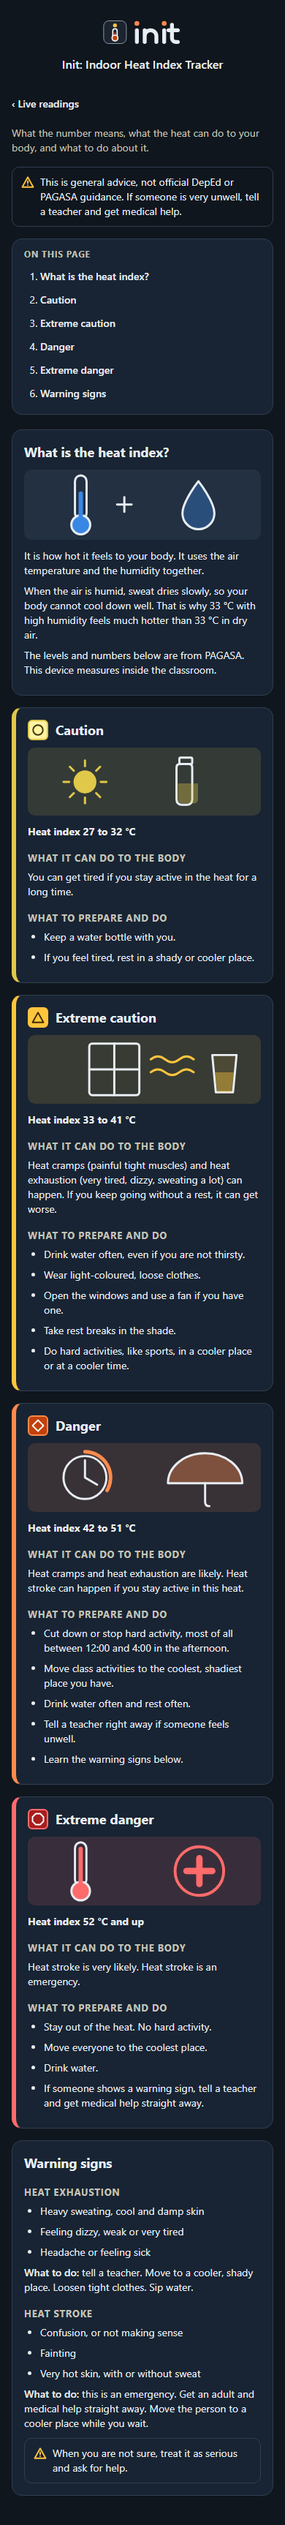
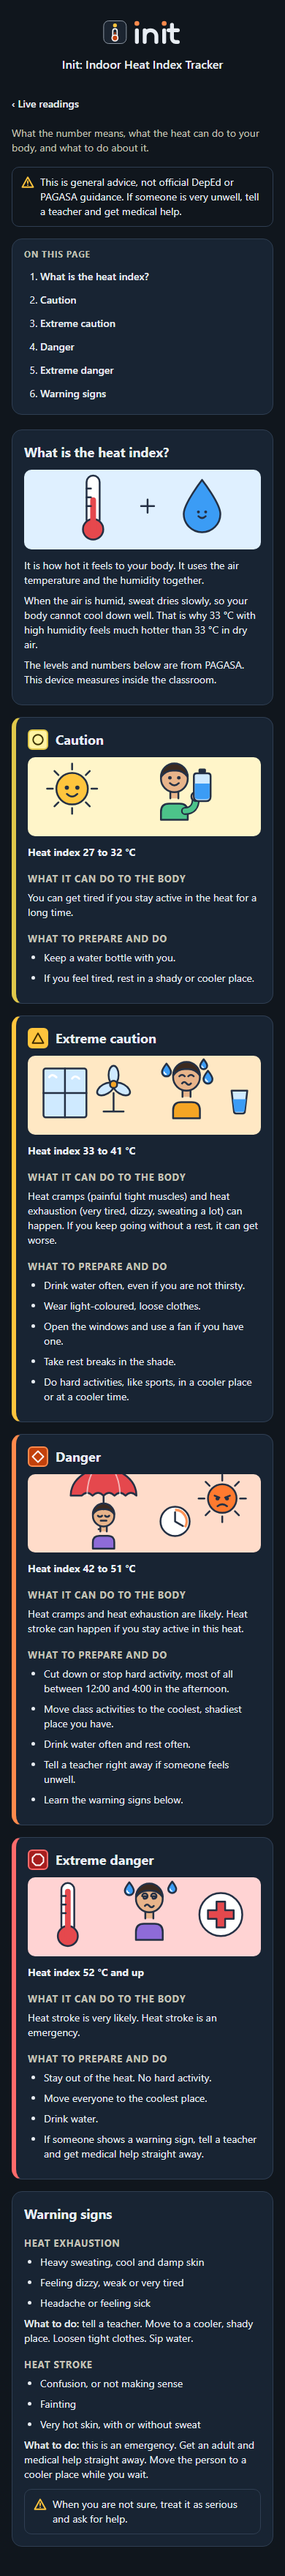
F-15 extended mocks: clip-art style pictures (kids, sun, bottle, fan, umbrella)
Inline SVG in art.mjs, decoration only. Mocks only, nothing built.

diff --git a/design/heat-info/heat.html b/design/heat-info/heat.html
@@ -30,13 +30,19 @@
   </ol></nav>
 
   <section class="gd-sec" id="what"><h2>What is the heat index?</h2>
-    <svg class="hl-art hl-art-what" viewBox="0 0 326 96" aria-hidden="true" fill="none" stroke="var(--viz-ink)" stroke-width="3" stroke-linecap="round" stroke-linejoin="round"><rect x="70" y="8" width="16" height="60" rx="8"/><circle cx="78" cy="76" r="13" fill="var(--series-hi)"/><rect x="75" y="30" width="6" height="42" rx="3" fill="var(--series-hi)" stroke="none"/><path d="M128 48h20M138 38v20"/><path d="M240 16C240 16 218 44 218 60a22 22 0 0 0 44 0C262 44 240 16 240 16z" fill="var(--series-hi)" fill-opacity=".35"/></svg>
+    <svg class="hl-art hl-art-what" viewBox="0 0 326 110" aria-hidden="true"><g transform="translate(95 52) scale(1)"><rect x="-9" y="-44" width="18" height="70" rx="9" fill="#ffffff" stroke="#243044" stroke-width="2.5" stroke-linecap="round" stroke-linejoin="round" vector-effect="non-scaling-stroke"/><circle cx="0" cy="30" r="14" fill="#e5484d" stroke="#243044" stroke-width="2.5" stroke-linecap="round" stroke-linejoin="round" vector-effect="non-scaling-stroke"/><rect x="-4" y="-14" width="8" height="48" rx="4" fill="#e5484d"/><path d="M-9 -26h6M-9 -14h6M-9 -2h6" fill="none" stroke="#243044" stroke-width="2.5" stroke-linecap="round" stroke-linejoin="round" vector-effect="non-scaling-stroke" stroke-width="2"/></g><path d="M161 50h18M170 41v18" fill="none" stroke="#243044" stroke-width="2.5" stroke-linecap="round" stroke-linejoin="round" vector-effect="non-scaling-stroke" stroke-width="5"/><g transform="translate(245 50) scale(1)"><g transform="translate(0 0) scale(3.6)"><path d="M0-10C0-10-7-1-7 3a7 7 0 0 0 14 0C7-1 0-10 0-10z" fill="#3b9cf5" stroke="#243044" stroke-width="2.5" stroke-linecap="round" stroke-linejoin="round" vector-effect="non-scaling-stroke" stroke-width="2"/></g><g transform="translate(0 9)"><circle cx="-5" cy="-1" r="2" fill="#243044"/><circle cx="5" cy="-1" r="2" fill="#243044"/><path d="M-5 5Q0 10 5 5" fill="none" stroke="#243044" stroke-width="2.5" stroke-linecap="round" stroke-linejoin="round" vector-effect="non-scaling-stroke"/></g></g></svg>
     <p>It is how hot it feels to your body. It uses the air temperature and the humidity together.</p>
     <p>When the air is humid, sweat dries slowly, so your body cannot cool down well. That is why 33 °C with high humidity feels much hotter than 33 °C in dry air.</p>
     <p>The levels and numbers below are from PAGASA. This device measures inside the classroom.</p></section>
 
   <section class="gd-sec hl-sec hl-caution" id="caution"><h2><span class="school-chip sc-caution"><svg viewBox="0 0 24 24" aria-hidden="true"><circle cx="12" cy="12" r="9"/></svg></span>Caution</h2>
-    <svg class="hl-art hl-art-caution" viewBox="0 0 326 96" aria-hidden="true" fill="none" stroke="var(--viz-ink)" stroke-width="3" stroke-linecap="round" stroke-linejoin="round"><circle cx="80" cy="48" r="16" fill="var(--heat-caution-border)" stroke="none"/><g stroke="var(--heat-caution-border)"><path d="M102.0 48.0 L110.0 48.0"/><path d="M95.6 63.6 L101.2 69.2"/><path d="M80.0 70.0 L80.0 78.0"/><path d="M64.4 63.6 L58.8 69.2"/><path d="M58.0 48.0 L50.0 48.0"/><path d="M64.4 32.4 L58.8 26.8"/><path d="M80.0 26.0 L80.0 18.0"/><path d="M95.6 32.4 L101.2 26.8"/></g><rect x="212" y="14" width="18" height="9" rx="2"/><path d="M208 28q0-5 5-5h12q5 0 5 5v44q0 8-8 8h-6q-8 0-8-8z"/><path d="M210 50h28v22q0 6-6 6h-16q-6 0-6-6z" fill="var(--heat-caution-border)" fill-opacity=".35" stroke="none"/></svg>
+    <svg class="hl-art hl-art-caution" viewBox="0 0 326 110" aria-hidden="true"><g transform="translate(62 44) scale(1)"><path d="M27.0 0.0L35.0 0.0" fill="none" stroke="#243044" stroke-width="2.5" stroke-linecap="round" stroke-linejoin="round" vector-effect="non-scaling-stroke" stroke-width="3.5"/><path d="M19.1 19.1L24.7 24.7" fill="none" stroke="#243044" stroke-width="2.5" stroke-linecap="round" stroke-linejoin="round" vector-effect="non-scaling-stroke" stroke-width="3.5"/><path d="M0.0 27.0L0.0 35.0" fill="none" stroke="#243044" stroke-width="2.5" stroke-linecap="round" stroke-linejoin="round" vector-effect="non-scaling-stroke" stroke-width="3.5"/><path d="M-19.1 19.1L-24.7 24.7" fill="none" stroke="#243044" stroke-width="2.5" stroke-linecap="round" stroke-linejoin="round" vector-effect="non-scaling-stroke" stroke-width="3.5"/><path d="M-27.0 0.0L-35.0 0.0" fill="none" stroke="#243044" stroke-width="2.5" stroke-linecap="round" stroke-linejoin="round" vector-effect="non-scaling-stroke" stroke-width="3.5"/><path d="M-19.1 -19.1L-24.7 -24.7" fill="none" stroke="#243044" stroke-width="2.5" stroke-linecap="round" stroke-linejoin="round" vector-effect="non-scaling-stroke" stroke-width="3.5"/><path d="M-0.0 -27.0L-0.0 -35.0" fill="none" stroke="#243044" stroke-width="2.5" stroke-linecap="round" stroke-linejoin="round" vector-effect="non-scaling-stroke" stroke-width="3.5"/><path d="M19.1 -19.1L24.7 -24.7" fill="none" stroke="#243044" stroke-width="2.5" stroke-linecap="round" stroke-linejoin="round" vector-effect="non-scaling-stroke" stroke-width="3.5"/><circle r="22" fill="#ffc53d" stroke="#243044" stroke-width="2.5" stroke-linecap="round" stroke-linejoin="round" vector-effect="non-scaling-stroke"/><g transform="translate(0 0) scale(1.4666666666666666)"><circle cx="-5" cy="-1" r="2" fill="#243044"/><circle cx="5" cy="-1" r="2" fill="#243044"/><path d="M-5 5Q0 10 5 5" fill="none" stroke="#243044" stroke-width="2.5" stroke-linecap="round" stroke-linejoin="round" vector-effect="non-scaling-stroke"/></g></g><g transform="translate(205 30) scale(1.25)">
+  <path d="M-15 46v-9q0-9 9-9h12q9 0 9 9v9z" fill="#4cc38a" stroke="#243044" stroke-width="2.5" stroke-linecap="round" stroke-linejoin="round" vector-effect="non-scaling-stroke"/>
+  <path d="M12 36q12 0 12-14" fill="none" stroke="#243044" stroke-width="9" stroke-linecap="round"/><path d="M12 36q12 0 12-14" fill="none" stroke="#4cc38a" stroke-width="5.5" stroke-linecap="round"/><circle cx="24" cy="20" r="5" fill="#e8b48a" stroke="#243044" stroke-width="2.5" stroke-linecap="round" stroke-linejoin="round" vector-effect="non-scaling-stroke"/>
+  <rect x="-4.5" y="13" width="9" height="9" fill="#e8b48a"/><path d="M-4.5 14v8M4.5 14v8" fill="none" stroke="#243044" stroke-width="2.5" stroke-linecap="round" stroke-linejoin="round" vector-effect="non-scaling-stroke"/>
+  <circle cx="0" cy="0" r="15" fill="#e8b48a" stroke="#243044" stroke-width="2.5" stroke-linecap="round" stroke-linejoin="round" vector-effect="non-scaling-stroke"/>
+  <path d="M-15 -2A15 15 0 0 1 15 -2Q9-10 0-9Q-9-10-15-2z" fill="#3b2a20" stroke="#243044" stroke-width="2.5" stroke-linecap="round" stroke-linejoin="round" vector-effect="non-scaling-stroke"/>
+  <circle cx="-5" cy="-1" r="2" fill="#243044"/><circle cx="5" cy="-1" r="2" fill="#243044"/><path d="M-5 5Q0 10 5 5" fill="none" stroke="#243044" stroke-width="2.5" stroke-linecap="round" stroke-linejoin="round" vector-effect="non-scaling-stroke"/></g><g transform="translate(244 38) scale(1.3)"><rect x="-4" y="-17" width="8" height="5" rx="1.5" fill="#243044"/><path d="M-6-12h12q3 0 3 3v22q0 5-5 5h-8q-5 0-5-5v-22q0-3 3-3z" fill="#cfeaff" stroke="#243044" stroke-width="2.5" stroke-linecap="round" stroke-linejoin="round" vector-effect="non-scaling-stroke"/><path d="M-8 -1h16v14q0 3-4 3h-8q-4 0-4-3z" fill="#3b9cf5"/></g></svg>
     <p class="hl-range">Heat index 27 to 32 °C</p>
     <h3>What it can do to the body</h3>
     <p>You can get tired if you stay active in the heat for a long time.</p>
@@ -44,7 +50,13 @@
     <ul><li>Keep a water bottle with you.</li><li>If you feel tired, rest in a shady or cooler place.</li></ul></section>
 
   <section class="gd-sec hl-sec hl-extreme-caution" id="extreme-caution"><h2><span class="school-chip sc-extreme-caution"><svg viewBox="0 0 24 24" aria-hidden="true"><path d="M12 3 22 21H2z"/></svg></span>Extreme caution</h2>
-    <svg class="hl-art hl-art-extreme-caution" viewBox="0 0 326 96" aria-hidden="true" fill="none" stroke="var(--viz-ink)" stroke-width="3" stroke-linecap="round" stroke-linejoin="round"><rect x="86" y="12" width="70" height="72" rx="4"/><path d="M121 12v72M86 48h70"/><path d="M172 34q10-8 20 0t20 0t20 0M172 52q10-8 20 0t20 0t20 0" stroke="var(--heat-extreme-caution-border)"/><path d="M258 28h34l-5 52h-24z" fill="var(--heat-extreme-caution-border)" fill-opacity=".1"/><path d="M262 52h26l-3 28h-20z" fill="var(--heat-extreme-caution-border)" fill-opacity=".4" stroke="none"/></svg>
+    <svg class="hl-art hl-art-extreme-caution" viewBox="0 0 326 110" aria-hidden="true"><g transform="translate(52 52) scale(1)"><rect x="-30" y="-34" width="60" height="68" rx="3" fill="#cfeaff" stroke="#243044" stroke-width="2.5" stroke-linecap="round" stroke-linejoin="round" vector-effect="non-scaling-stroke"/><path d="M0-34v68M-30 0h60" fill="none" stroke="#243044" stroke-width="2.5" stroke-linecap="round" stroke-linejoin="round" vector-effect="non-scaling-stroke"/><path d="M-22-22q4-6 10 0M10-20q4-6 10 0" fill="none" stroke="#ffffff" stroke-width="3" stroke-linecap="round"/></g><g transform="translate(120 40) scale(1)"><path d="M-14 38h28M0 12v26" fill="none" stroke="#243044" stroke-width="2.5" stroke-linecap="round" stroke-linejoin="round" vector-effect="non-scaling-stroke" stroke-width="3.5"/><g fill="#cfeaff" stroke="#243044" stroke-width="2.5" stroke-linecap="round" stroke-linejoin="round" vector-effect="non-scaling-stroke"><ellipse cx="0" cy="-13" rx="7" ry="13"/><ellipse cx="0" cy="-13" rx="7" ry="13" transform="rotate(120)"/><ellipse cx="0" cy="-13" rx="7" ry="13" transform="rotate(240)"/></g><circle r="5" fill="#f5a524" stroke="#243044" stroke-width="2.5" stroke-linecap="round" stroke-linejoin="round" vector-effect="non-scaling-stroke"/></g><g transform="translate(222 30) scale(1.25)">
+  <path d="M-15 46v-9q0-9 9-9h12q9 0 9 9v9z" fill="#f5a524" stroke="#243044" stroke-width="2.5" stroke-linecap="round" stroke-linejoin="round" vector-effect="non-scaling-stroke"/>
+  
+  <rect x="-4.5" y="13" width="9" height="9" fill="#e8b48a"/><path d="M-4.5 14v8M4.5 14v8" fill="none" stroke="#243044" stroke-width="2.5" stroke-linecap="round" stroke-linejoin="round" vector-effect="non-scaling-stroke"/>
+  <circle cx="0" cy="0" r="15" fill="#e8b48a" stroke="#243044" stroke-width="2.5" stroke-linecap="round" stroke-linejoin="round" vector-effect="non-scaling-stroke"/>
+  <path d="M-15 -2A15 15 0 0 1 15 -2Q9-10 0-9Q-9-10-15-2z" fill="#3b2a20" stroke="#243044" stroke-width="2.5" stroke-linecap="round" stroke-linejoin="round" vector-effect="non-scaling-stroke"/>
+  <path d="M-8 -1q3-3 6 0M2 -1q3-3 6 0" fill="none" stroke="#243044" stroke-width="2.5" stroke-linecap="round" stroke-linejoin="round" vector-effect="non-scaling-stroke"/><path d="M-5 7q2.5-3 5 0t5 0" fill="none" stroke="#243044" stroke-width="2.5" stroke-linecap="round" stroke-linejoin="round" vector-effect="non-scaling-stroke"/></g><g transform="translate(194 20) scale(0.9)"><path d="M0-10C0-10-7-1-7 3a7 7 0 0 0 14 0C7-1 0-10 0-10z" fill="#3b9cf5" stroke="#243044" stroke-width="2.5" stroke-linecap="round" stroke-linejoin="round" vector-effect="non-scaling-stroke" stroke-width="2"/><path d="M-3.5 3a3.5 3.5 0 0 0 3 3.5" fill="none" stroke="#ffffff" stroke-width="1.8" stroke-linecap="round"/></g><g transform="translate(252 30) scale(0.9)"><path d="M0-10C0-10-7-1-7 3a7 7 0 0 0 14 0C7-1 0-10 0-10z" fill="#3b9cf5" stroke="#243044" stroke-width="2.5" stroke-linecap="round" stroke-linejoin="round" vector-effect="non-scaling-stroke" stroke-width="2"/><path d="M-3.5 3a3.5 3.5 0 0 0 3 3.5" fill="none" stroke="#ffffff" stroke-width="1.8" stroke-linecap="round"/></g><g transform="translate(246 12) scale(0.7)"><path d="M0-10C0-10-7-1-7 3a7 7 0 0 0 14 0C7-1 0-10 0-10z" fill="#3b9cf5" stroke="#243044" stroke-width="2.5" stroke-linecap="round" stroke-linejoin="round" vector-effect="non-scaling-stroke" stroke-width="2"/><path d="M-3.5 3a3.5 3.5 0 0 0 3 3.5" fill="none" stroke="#ffffff" stroke-width="1.8" stroke-linecap="round"/></g><g transform="translate(296 62) scale(1.1)"><path d="M-10-12h20l-3 26q0 3-3 3h-8q-3 0-3-3z" fill="#cfeaff" stroke="#243044" stroke-width="2.5" stroke-linecap="round" stroke-linejoin="round" vector-effect="non-scaling-stroke"/><path d="M-8.5 -1h17l-2 14q0 2-2 2h-9q-2 0-2-2z" fill="#3b9cf5"/></g></svg>
     <p class="hl-range">Heat index 33 to 41 °C</p>
     <h3>What it can do to the body</h3>
     <p>Heat cramps (painful tight muscles) and heat exhaustion (very tired, dizzy, sweating a lot) can happen. If you keep going without a rest, it can get worse.</p>
@@ -52,7 +64,13 @@
     <ul><li>Drink water often, even if you are not thirsty.</li><li>Wear light-coloured, loose clothes.</li><li>Open the windows and use a fan if you have one.</li><li>Take rest breaks in the shade.</li><li>Do hard activities, like sports, in a cooler place or at a cooler time.</li></ul></section>
 
   <section class="gd-sec hl-sec hl-danger" id="danger"><h2><span class="school-chip sc-danger"><svg viewBox="0 0 24 24" aria-hidden="true"><path d="M12 2 22 12 12 22 2 12z"/></svg></span>Danger</h2>
-    <svg class="hl-art hl-art-danger" viewBox="0 0 326 96" aria-hidden="true" fill="none" stroke="var(--viz-ink)" stroke-width="3" stroke-linecap="round" stroke-linejoin="round"><circle cx="80" cy="48" r="30"/><path d="M80 48V24M80 48l17 10"/><path d="M80 12A36 36 0 0 1 111 66" stroke="var(--heat-danger-border)" stroke-width="5"/><path d="M196 56a52 42 0 0 1 104 0z" fill="var(--heat-danger-border)" fill-opacity=".35"/><path d="M248 56v26q0 6 6 6"/></svg>
+    <svg class="hl-art hl-art-danger" viewBox="0 0 326 110" aria-hidden="true"><g transform="translate(272 34) scale(1)"><path d="M25.0 0.0L33.0 0.0" fill="none" stroke="#243044" stroke-width="2.5" stroke-linecap="round" stroke-linejoin="round" vector-effect="non-scaling-stroke" stroke-width="3.5"/><path d="M17.7 17.7L23.3 23.3" fill="none" stroke="#243044" stroke-width="2.5" stroke-linecap="round" stroke-linejoin="round" vector-effect="non-scaling-stroke" stroke-width="3.5"/><path d="M0.0 25.0L0.0 33.0" fill="none" stroke="#243044" stroke-width="2.5" stroke-linecap="round" stroke-linejoin="round" vector-effect="non-scaling-stroke" stroke-width="3.5"/><path d="M-17.7 17.7L-23.3 23.3" fill="none" stroke="#243044" stroke-width="2.5" stroke-linecap="round" stroke-linejoin="round" vector-effect="non-scaling-stroke" stroke-width="3.5"/><path d="M-25.0 0.0L-33.0 0.0" fill="none" stroke="#243044" stroke-width="2.5" stroke-linecap="round" stroke-linejoin="round" vector-effect="non-scaling-stroke" stroke-width="3.5"/><path d="M-17.7 -17.7L-23.3 -23.3" fill="none" stroke="#243044" stroke-width="2.5" stroke-linecap="round" stroke-linejoin="round" vector-effect="non-scaling-stroke" stroke-width="3.5"/><path d="M-0.0 -25.0L-0.0 -33.0" fill="none" stroke="#243044" stroke-width="2.5" stroke-linecap="round" stroke-linejoin="round" vector-effect="non-scaling-stroke" stroke-width="3.5"/><path d="M17.7 -17.7L23.3 -23.3" fill="none" stroke="#243044" stroke-width="2.5" stroke-linecap="round" stroke-linejoin="round" vector-effect="non-scaling-stroke" stroke-width="3.5"/><circle r="20" fill="#ff7a2f" stroke="#243044" stroke-width="2.5" stroke-linecap="round" stroke-linejoin="round" vector-effect="non-scaling-stroke"/><g transform="translate(0 0) scale(1.3333333333333333)"><path d="M-8 -3l5 2M8 -3l-5 2" fill="none" stroke="#243044" stroke-width="2.5" stroke-linecap="round" stroke-linejoin="round" vector-effect="non-scaling-stroke"/><circle cx="-5" cy="0" r="2" fill="#243044"/><circle cx="5" cy="0" r="2" fill="#243044"/><path d="M-5 8Q0 4 5 8" fill="none" stroke="#243044" stroke-width="2.5" stroke-linecap="round" stroke-linejoin="round" vector-effect="non-scaling-stroke"/></g></g><g transform="translate(106 30) scale(1)"><path d="M-46 0a46 38 0 0 1 92 0q-8-8-15.3 0q-7.7-8-15.4 0q-7.6-8-15.3 0q-7.7-8-15.4 0q-7.6-8-15.3 0z" fill="#e5484d" stroke="#243044" stroke-width="2.5" stroke-linecap="round" stroke-linejoin="round" vector-effect="non-scaling-stroke"/><path d="M0 -38v-6" fill="none" stroke="#243044" stroke-width="2.5" stroke-linecap="round" stroke-linejoin="round" vector-effect="non-scaling-stroke"/><path d="M0 0v40q0 7-7 7" fill="none" stroke="#243044" stroke-width="2.5" stroke-linecap="round" stroke-linejoin="round" vector-effect="non-scaling-stroke" stroke-width="3.5"/><path d="M-15 -34q-8 14-8 34M15 -34q8 14 8 34" fill="none" stroke="#ffffff" stroke-width="2" opacity=".6"/></g><g transform="translate(106 58) scale(1)">
+  <path d="M-15 46v-9q0-9 9-9h12q9 0 9 9v9z" fill="#8e6bd8" stroke="#243044" stroke-width="2.5" stroke-linecap="round" stroke-linejoin="round" vector-effect="non-scaling-stroke"/>
+  
+  <rect x="-4.5" y="13" width="9" height="9" fill="#e8b48a"/><path d="M-4.5 14v8M4.5 14v8" fill="none" stroke="#243044" stroke-width="2.5" stroke-linecap="round" stroke-linejoin="round" vector-effect="non-scaling-stroke"/>
+  <circle cx="0" cy="0" r="15" fill="#e8b48a" stroke="#243044" stroke-width="2.5" stroke-linecap="round" stroke-linejoin="round" vector-effect="non-scaling-stroke"/>
+  <path d="M-15 -2A15 15 0 0 1 15 -2Q9-10 0-9Q-9-10-15-2z" fill="#3b2a20" stroke="#243044" stroke-width="2.5" stroke-linecap="round" stroke-linejoin="round" vector-effect="non-scaling-stroke"/>
+  <path d="M-8 0q3 3 6 0M2 0q3 3 6 0" fill="none" stroke="#243044" stroke-width="2.5" stroke-linecap="round" stroke-linejoin="round" vector-effect="non-scaling-stroke"/><path d="M-4 7h8" fill="none" stroke="#243044" stroke-width="2.5" stroke-linecap="round" stroke-linejoin="round" vector-effect="non-scaling-stroke"/></g><g transform="translate(206 66) scale(0.85)"><circle r="24" fill="#ffffff" stroke="#243044" stroke-width="2.5" stroke-linecap="round" stroke-linejoin="round" vector-effect="non-scaling-stroke"/><path d="M0 0V-15M0 0l13 7.5" fill="none" stroke="#243044" stroke-width="2.5" stroke-linecap="round" stroke-linejoin="round" vector-effect="non-scaling-stroke" stroke-width="3.5"/><path d="M0 -19A19 19 0 0 1 16.5 9.5" fill="none" stroke="#ff7a2f" stroke-width="4" opacity=".8"/></g></svg>
     <p class="hl-range">Heat index 42 to 51 °C</p>
     <h3>What it can do to the body</h3>
     <p>Heat cramps and heat exhaustion are likely. Heat stroke can happen if you stay active in this heat.</p>
@@ -60,7 +78,13 @@
     <ul><li>Cut down or stop hard activity, most of all between 12:00 and 4:00 in the afternoon.</li><li>Move class activities to the coolest, shadiest place you have.</li><li>Drink water often and rest often.</li><li>Tell a teacher right away if someone feels unwell.</li><li>Learn the warning signs below.</li></ul></section>
 
   <section class="gd-sec hl-sec hl-extreme-danger" id="extreme-danger"><h2><span class="school-chip sc-extreme-danger"><svg viewBox="0 0 24 24" aria-hidden="true"><path d="M8 2h8l6 6v8l-6 6H8l-6-6V8z"/></svg></span>Extreme danger</h2>
-    <svg class="hl-art hl-art-extreme-danger" viewBox="0 0 326 96" aria-hidden="true" fill="none" stroke="var(--viz-ink)" stroke-width="3" stroke-linecap="round" stroke-linejoin="round"><rect x="66" y="8" width="16" height="60" rx="8"/><circle cx="74" cy="76" r="13" fill="var(--heat-extreme-danger-border)"/><rect x="71" y="14" width="6" height="58" rx="3" fill="var(--heat-extreme-danger-border)" stroke="none"/><circle cx="240" cy="48" r="34" stroke="var(--heat-extreme-danger-border)" stroke-width="4"/><path d="M240 30v36M222 48h36" stroke="var(--heat-extreme-danger-border)" stroke-width="9"/></svg>
+    <svg class="hl-art hl-art-extreme-danger" viewBox="0 0 326 110" aria-hidden="true"><g transform="translate(56 52) scale(1)"><rect x="-9" y="-44" width="18" height="70" rx="9" fill="#ffffff" stroke="#243044" stroke-width="2.5" stroke-linecap="round" stroke-linejoin="round" vector-effect="non-scaling-stroke"/><circle cx="0" cy="30" r="14" fill="#e5484d" stroke="#243044" stroke-width="2.5" stroke-linecap="round" stroke-linejoin="round" vector-effect="non-scaling-stroke"/><rect x="-4" y="-36" width="8" height="70" rx="4" fill="#e5484d"/><path d="M-9 -26h6M-9 -14h6M-9 -2h6" fill="none" stroke="#243044" stroke-width="2.5" stroke-linecap="round" stroke-linejoin="round" vector-effect="non-scaling-stroke" stroke-width="2"/></g><g transform="translate(170 30) scale(1.25)">
+  <path d="M-15 46v-9q0-9 9-9h12q9 0 9 9v9z" fill="#8e6bd8" stroke="#243044" stroke-width="2.5" stroke-linecap="round" stroke-linejoin="round" vector-effect="non-scaling-stroke"/>
+  
+  <rect x="-4.5" y="13" width="9" height="9" fill="#e8b48a"/><path d="M-4.5 14v8M4.5 14v8" fill="none" stroke="#243044" stroke-width="2.5" stroke-linecap="round" stroke-linejoin="round" vector-effect="non-scaling-stroke"/>
+  <circle cx="0" cy="0" r="15" fill="#e8b48a" stroke="#243044" stroke-width="2.5" stroke-linecap="round" stroke-linejoin="round" vector-effect="non-scaling-stroke"/>
+  <path d="M-15 -2A15 15 0 0 1 15 -2Q9-10 0-9Q-9-10-15-2z" fill="#3b2a20" stroke="#243044" stroke-width="2.5" stroke-linecap="round" stroke-linejoin="round" vector-effect="non-scaling-stroke"/>
+  <path d="M-8 -3a3 3 0 1 1 3 3a1.5 1.5 0 1 1 1.5-1.5M2 -3a3 3 0 1 1 3 3a1.5 1.5 0 1 1 1.5-1.5" fill="none" stroke="#243044" stroke-width="2.5" stroke-linecap="round" stroke-linejoin="round" vector-effect="non-scaling-stroke" stroke-width="1.8"/><path d="M-5 8q2.5-3 5 0t5 0" fill="none" stroke="#243044" stroke-width="2.5" stroke-linecap="round" stroke-linejoin="round" vector-effect="non-scaling-stroke"/></g><g transform="translate(142 16) scale(0.9)"><path d="M0-10C0-10-7-1-7 3a7 7 0 0 0 14 0C7-1 0-10 0-10z" fill="#3b9cf5" stroke="#243044" stroke-width="2.5" stroke-linecap="round" stroke-linejoin="round" vector-effect="non-scaling-stroke" stroke-width="2"/><path d="M-3.5 3a3.5 3.5 0 0 0 3 3.5" fill="none" stroke="#ffffff" stroke-width="1.8" stroke-linecap="round"/></g><g transform="translate(202 14) scale(0.8)"><path d="M0-10C0-10-7-1-7 3a7 7 0 0 0 14 0C7-1 0-10 0-10z" fill="#3b9cf5" stroke="#243044" stroke-width="2.5" stroke-linecap="round" stroke-linejoin="round" vector-effect="non-scaling-stroke" stroke-width="2"/><path d="M-3.5 3a3.5 3.5 0 0 0 3 3.5" fill="none" stroke="#ffffff" stroke-width="1.8" stroke-linecap="round"/></g><g transform="translate(270 52) scale(1)"><circle r="30" fill="#ffffff" stroke="#243044" stroke-width="2.5" stroke-linecap="round" stroke-linejoin="round" vector-effect="non-scaling-stroke"/><path d="M-6-18h12v12h12v12h-12v12h-12v-12h-12v-12h12z" fill="#e5484d" stroke="#243044" stroke-width="2.5" stroke-linecap="round" stroke-linejoin="round" vector-effect="non-scaling-stroke"/></g></svg>
     <p class="hl-range">Heat index 52 °C and up</p>
     <h3>What it can do to the body</h3>
     <p>Heat stroke is very likely. Heat stroke is an emergency.</p>

diff --git a/design/heat-info/heat-info.css b/design/heat-info/heat-info.css
@@ -9,9 +9,10 @@
 .hl-extreme-danger { border-left-color: var(--heat-extreme-danger-border); }
 .hl-signs { margin: 0 0 8px; padding-left: 22px; }
 
-/* Decorative pictures (inline SVG): a calm panel, tinted with the level's own colour. */
-.hl-art { display: block; width: 100%; height: auto; margin: 0 0 12px; border-radius: 10px; background: color-mix(in srgb, var(--viz-grid) 45%, var(--viz-surface)); }
-.hl-art-caution { background: color-mix(in srgb, var(--heat-caution-border) 14%, var(--viz-surface)); }
-.hl-art-extreme-caution { background: color-mix(in srgb, var(--heat-extreme-caution-border) 14%, var(--viz-surface)); }
-.hl-art-danger { background: color-mix(in srgb, var(--heat-danger-border) 14%, var(--viz-surface)); }
-.hl-art-extreme-danger { background: color-mix(in srgb, var(--heat-extreme-danger-border) 14%, var(--viz-surface)); }
+/* Decorative clip art (inline SVG, art.mjs): a pale "sticker" panel in both light and dark, so the bright colours always read well. */
+.hl-art { display: block; width: 100%; height: auto; margin: 0 0 12px; border-radius: 10px; }
+.hl-art-what { background: #dff0ff; }
+.hl-art-caution { background: #fff5c9; }
+.hl-art-extreme-caution { background: #ffe8c4; }
+.hl-art-danger { background: #ffdcca; }
+.hl-art-extreme-danger { background: #ffd3d3; }

diff --git a/design/heat-info/README.md b/design/heat-info/README.md
@@ -5,7 +5,8 @@
 | File | What |
 |---|---|
 | `home-danger.html`, `home-caution.html` | The approved home mock with one new link, **What does this mean? ›**, inside the heat card under the level name (it opens `#heat/<level>`); same text colour as the level, so the contrast of the card is unchanged |
-| `heat.html` | The `#heat` page: a "general advice" note, what the heat index is, one part per level, each with a small picture (range, picture, what it can do to the body, what to prepare and do). The pictures are flat inline SVG drawn in `build-mocks.mjs` (no image files, no copyright, they work offline and follow light and dark); they are decoration and hidden from screen readers: Caution = sun and water bottle, Extreme caution = open window, airflow and a glass of water, Danger = a clock with 12 to 4 marked and shade, Extreme danger = thermometer and a medical cross; the intro has a thermometer and a water drop, and warning signs for heat exhaustion and heat stroke |
+| `heat.html` | The `#heat` page: a "general advice" note, what the heat index is, one part per level, each with a small picture (range, picture, what it can do to the body, what to prepare and do). The pictures are friendly clip-art cartoons (outlined, flat colour, a kid, the sun, a bottle, a fan, an umbrella), drawn in `art.mjs` as inline SVG: no image files, no copyright, they work offline. They sit on a pale panel in both light and dark mode so the colours always read well, and they are decoration only (hidden from screen readers). Caution = a smiling sun and a kid with a water bottle; Extreme caution = a sweating kid, a window, a fan and a glass of water; Danger = a tired kid under an umbrella, a clock and a cross sun; Extreme danger = a thermometer, a dizzy kid and a red-cross sign; the intro = a thermometer plus a smiling water drop, and warning signs for heat exhaustion and heat stroke |
+| `art.mjs` | The clip-art pictures (inline SVG), used by `build-mocks.mjs` |
 | `heat-info.css` | The few new styles |
 | `build-mocks.mjs`, `capture.mjs` | `node design/heat-info/build-mocks.mjs`, then `capture.mjs` writes `ref/<state>-<phone\|desktop>-<light\|dark>.png` |
 
